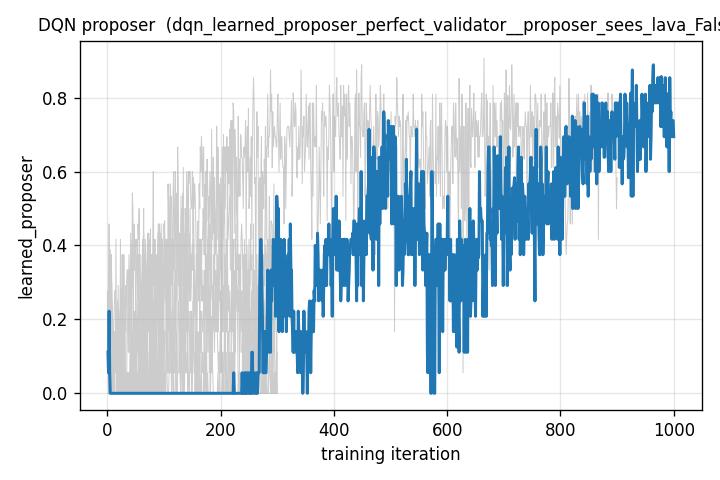
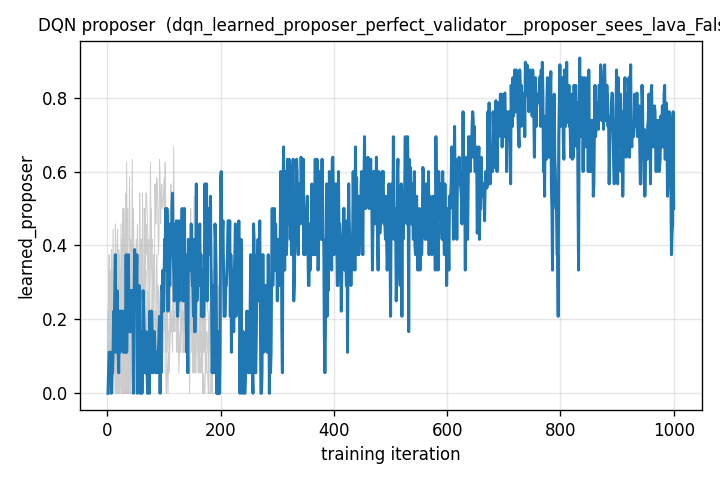
tweak the hyperparams to be more aggressive in exploration

Changed region(s): [[0.1222, 0.125, 0.9472, 0.8438]]

diff --git a/config.py b/config.py
@@ -26,6 +26,7 @@ from utils import (
 def create_algorithm_config(algorithm_name: str) -> AlgorithmConfig:
     config = None
     if algorithm_name == "dqn":
+        # Aggressive exploration with epsilon high for a long period of time
         config = DQNConfig().training(
             replay_buffer_config={
                 "enable_replay_buffer_api": True,
@@ -34,14 +35,19 @@ def create_algorithm_config(algorithm_name: str) -> AlgorithmConfig:
                 "alpha": 0.8,
                 "beta": 0.4,
             },
-            train_batch_size_per_learner=2048,
+            train_batch_size_per_learner=512,
             num_steps_sampled_before_learning_starts=300,
+            epsilon=[(0, 1.0), (300_000, 0.15)],
         )
 
     if algorithm_name == "ppo":
         config = PPOConfig().training(
-            entropy_coeff=0.01,
-            train_batch_size=1024,
+            entropy_coeff=[
+                (0, 0.2),
+                (200_000, 0.05),
+                (800_000, 0.005),
+            ],
+            train_batch_size=512,
         )
 
     if algorithm_name == "sac":
@@ -52,9 +58,9 @@ def create_algorithm_config(algorithm_name: str) -> AlgorithmConfig:
                 "alpha": 0.8,
                 "beta": 0.4,
             },
-            train_batch_size_per_learner=2048,
+            train_batch_size_per_learner=512,
             num_steps_sampled_before_learning_starts=300,
-            initial_alpha=0.2,
+            initial_alpha=0.5,
         )
 
     if config is None:
@@ -73,17 +79,16 @@ def get_search_space(algorithm_name: str, learns_validator: bool = False) -> dic
             "gamma": tune.uniform(0.95, 0.999),
             "target_network_update_freq": tune.choice([200, 500, 1000]),
             "n_step": tune.choice(n_step_choices),
-            # epsilon-greedy schedule
             "epsilon": tune.choice([
-                [[0, 1.0], [50_000, 0.05]],
-                [[0, 1.0], [150_000, 0.05]],
-                [[0, 1.0], [400_000, 0.10]],
+                [(0, 1.0), (100_000, 0.10)],
+                [(0, 1.0), (300_000, 0.15)],
+                [(0, 1.0), (500_000, 0.20)],
             ]),
         }
     if algorithm_name == "ppo":
         return {
             "lr": tune.loguniform(1e-5, 1e-3),
-            "entropy_coeff": tune.uniform(0.0, 0.05),
+            "entropy_coeff": tune.uniform(0.05, 0.25),
             "clip_param": tune.uniform(0.1, 0.4),
             "num_epochs": tune.choice([10, 20, 30]),
         }
@@ -94,6 +99,7 @@ def get_search_space(algorithm_name: str, learns_validator: bool = False) -> dic
             "tau": tune.uniform(0.001, 0.01),
             "gamma": tune.uniform(0.95, 0.999),
             "n_step": tune.choice(n_step_choices),
+            "initial_alpha": tune.uniform(0.3, 0.8),
         }
     raise ValueError(f"Unknown algorithm: {algorithm_name}")
 

diff --git a/eval_common.py b/eval_common.py
@@ -13,6 +13,7 @@ from __future__ import annotations
 
 import argparse
 import itertools
+import os
 import random
 import sys
 from collections import deque
@@ -150,7 +151,7 @@ def run_pairing(
         render=True,
         record_render=True,
         # put a reasonable upper bound on steps to prevent infinite loops in case of agent running in circles
-        max_steps=200,
+        max_steps=128,
         single_agent=False,
         num_lava_tiles=NUM_LAVA_TILES,
         proposer_sees_lava=False,
@@ -166,7 +167,12 @@ def run_pairing(
     def get_action(module: RLModule, agent_id: str, obs_dict: dict, stochastic: bool) -> int:
         batch = {SampleBatch.OBS: obs_dict[agent_id]}
         is_dqn = "DQN" in type(module).__name__ or "DefaultDQNTorchRLModule" in type(module).__name__
-        # DQN is deterministic
+        if stochastic and is_dqn:
+            # change the eval to sampling from the q distribution
+            temp = float(os.environ.get("DQN_EVAL_TEMP", "0.3"))
+            q = module.compute_q_values(batch)["qf_preds"]
+            probs = torch.softmax(q / max(temp, 1e-6), dim=-1)
+            return int(torch.distributions.Categorical(probs=probs).sample().item())
         if stochastic and not is_dqn:
             # PPO and SAC are stochastic
             out = module.forward_exploration(batch)
@@ -190,7 +196,7 @@ def run_pairing(
             if "proposer" in obs:
                 actions["proposer"] = get_action(proposer_module, "proposer", obs, stochastic=True)
             elif "validator" in obs:
-                actions["validator"] = get_action(validator_module, "validator", obs, stochastic=False)
+                actions["validator"] = get_action(validator_module, "validator", obs, stochastic=True)
             else:
                 raise RuntimeError(f"No actionable agent in obs: {list(obs.keys())}")
 
@@ -345,11 +351,7 @@ def resolve_variations(args: argparse.Namespace, tag: str) -> list:
 
 
 def set_grid(args: argparse.Namespace) -> tuple[int, int]:
-    """Propagate --grid-size to every module that caches GRID_SIZE/NUM_LAVA_TILES.
-
-    Also returns (size, num_lava) so callers whose own module-level names were
-    bound at import time (e.g. `from utils import GRID_SIZE`) can use the fresh
-    values directly instead of reading their stale local binding.
+    """impose --grid-size to every module that caches GRID_SIZE/NUM_LAVA_TILES
     """
     global GRID_SIZE, NUM_LAVA_TILES
     GRID_SIZE = args.grid_size

diff --git a/plot_curves.py b/plot_curves.py
@@ -84,7 +84,7 @@ for col, algo in enumerate(ALGOS):
             f1.tight_layout(); f1.savefig(os.path.join(OUT, f"{name}.png"), dpi=120)
             plt.close(f1)
 
-fig.suptitle("Learning curves: per-policy return vs training iteration  (gray = all trials, blue = best)")
+fig.suptitle("learning curves (grey - all trials, blue - the best checkpoint)")
 fig.tight_layout()
 grid_path = os.path.join(OUT, "learning_curves.png")
 fig.savefig(grid_path, dpi=120)
